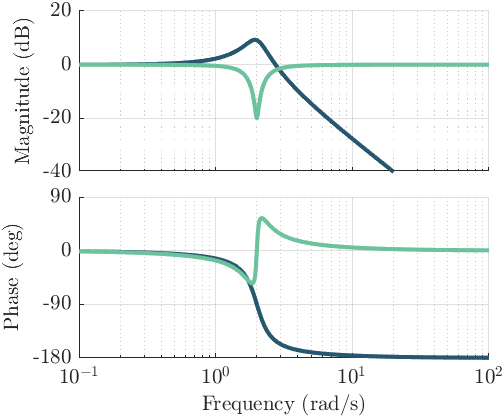
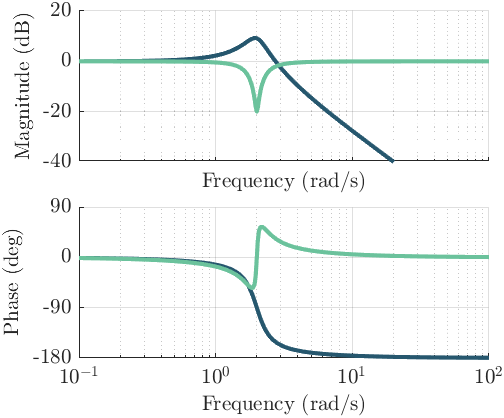
Move sharexy to preplot with much easier logic and figure sizing to postplot. By having figure sizing in postplot you can export the same plot multiple times with different settings if you e.g. want a plot for in a paper and in a presentation.

diff --git a/src/postplot.m b/src/postplot.m
@@ -1,4 +1,4 @@
-function links = postplot(f, fileName, opts)
+function postplot(f, fileName, opts)
 %POSTPLOT Finalize a figure with certain parameters, use together with
 %preplot.
 %   Postplot finalizes a figure by adjusting fonts, sharing x or y axes
@@ -24,12 +24,8 @@ function links = postplot(f, fileName, opts)
 %       y limits.
 %     opts.removeTimetableUnit: When plotting with Timetables, Matlab will
 %       by default put the time unit on the lower right, this removes that.
-%     opts.lineWidth: Set the linewidth of all lines in a figure.
-%
-%   Outputs:
-%      links: When linking axes properties with sharex or sharey, the links
-%        need to remain in the worksapce or they get lost, so we need to
-%        return them.
+%     opts.lineWidth: Set the linewidth of all objects (lines, scatter, 
+%       patch, etc...) in a figure.
 %
 %   Example:
 %     [f, axs] = preplot(2, 1)
@@ -46,15 +42,16 @@ function links = postplot(f, fileName, opts)
 arguments
     f matlab.ui.Figure = gcf
     fileName string = []
+    opts.paperFormat string = []
+    opts.column int8 = 1
+    opts.lineFrac double = 1.0
+    opts.aspectRatio double = 4/3
     opts.fontname = 'default'
     opts.fontSize = 10
     opts.legendFontSize = []
     opts.titleFontSize = []
     opts.fontSizeUnit = 'points'
-    opts.sharex logical = false
-    opts.sharey logical = false
     opts.removeTimetableUnit logical = false
-    opts.linkaxes = false  % Can be 'x', 'y', 'xy'.
     opts.lineWidth = []
 end
 
@@ -62,59 +59,49 @@ end
 axsUnordered = findobj(f, 'Type', 'axes');
 gridSize = f.Children.GridSize;  % Assumes that the plot was made with tiledlayout (through e.g. preplot).
 
-% TODO: documentation and maybe refactor with a local function or so? This
-% is a little bit of magic.
-iLink = 1;
-if opts.sharex || opts.sharey
-    for i = 1:length(axsUnordered)
-        ax = axsUnordered(i);
-        [iCol, iRow] = ind2sub(flip(gridSize), ax.Layout.Tile);  % flip the gridsize nm because ind2sub is column-major but tiledlayout row-major by default.
-        
-        
-        for j = 1:length(axsUnordered)
-            ax2 = axsUnordered(j);
-            [iCol2, iRow2] = ind2sub(flip(gridSize), ax2.Layout.Tile);  % flip the gridsize nm because ind2sub is column-major but tiledlayout row-major by default.
-            
-            if opts.sharex
-                ax2AboveAx = (iRow2 + ax2.Layout.TileSpan(1) == iRow) && (iCol2 == iCol);
-                equalSpanInX = ax2.Layout.TileSpan(2) == ax.Layout.TileSpan(2);
-                if ax2AboveAx && equalSpanInX
-                    ax2.XTickLabel = [];
-                    ax2.XAxis.Label.String = [];
-                    
-                    % Since we removed the x ticks, we need to make sure
-                    % that the x limits of the two plots are now linked.
-                    links(iLink) = linkprop([ax, ax2], 'XLim');  %#ok because we cannot predict how many links we'll create.
-                    iLink = iLink + 1;
-                    lim1 = get(ax, 'XLim');
-                    lim2 = get(ax2, 'XLim');
-                    xmin = min([lim1, lim2]);
-                    xmax = max([lim1, lim2]);
-                    xlim(ax, [xmin, xmax])
-                    xticks(ax2, xticks(ax));
-                end
+% Change the default size of the figure if specified by the user through
+% paperFormat, column, lineFrac, and aspectRatio.
+if ~isempty(opts.paperFormat)
+    switch opts.paperFormat
+        case "NAWEA"
+            % 6.5 inch line width.
+            f.Units = 'inches';
+            basewidth = 6.5;
+        case "ppt"
+            % Widescreen ppt format (16:9)
+            f.Units = 'centimeters';
+            basewidth = 33.867;
+        case "WES"
+            % I can't really find what it officially is so I just measured it.
+            f.Units = 'inches';
+            if opts.column == 1
+                basewidth = 3.35;
+            elseif opts.column == 2
+                basewidth = 7;
+            else
+                error('Not configures for column = %i', opts.column)
             end
-            if opts.sharey
-                ax2LeftOfAx = (iCol2 + ax2.Layout.TileSpan(2) == iCol) && (iRow2 == iRow);
-                equalSpanInY = ax2.Layout.TileSpan(1) == ax.Layout.TileSpan(1);
-                if ax2LeftOfAx && equalSpanInY
-                    ax.YTickLabel = [];
-                    ax.YAxis.Label.String = [];
-                    
-                    % Since we removed the y ticks, we need to make sure
-                    % that the x limits of the two plots are now linked.
-                    links(iLink) = linkprop([ax, ax2], 'YLim');  %#ok because we cannot predict how many links we'll create.
-                    iLink = iLink + 1;
-                    lim1 = get(ax, 'yLim');
-                    lim2 = get(ax2, 'YLim');
-                    ymin = min([lim1, lim2]);
-                    ymax = max([lim1, lim2]);
-                    ylim(ax, [ymin, ymax])
-                    yticks(ax, yticks(ax2));
-                end
+        case 'ACC'
+            f.Units = 'inches';
+            if opts.column == 1
+                basewidth = 3.41;
+            elseif opts.column == 2
+                basewidth = 7;
+            else
+                error('Not configured for column = %i', opts.column);
             end
-        end
+        case "iop"  % Also Torque
+            f.Units = 'centimeter';
+            basewidth = 16;
+            if opts.column == 2
+                error('Column == 2 not available for iop or Torque.')
+            end
+        otherwise
+            error('paperFormat %s is unknown to me', opts.paperFormat)
     end
+    width = basewidth * opts.lineFrac;
+    height = width / opts.aspectRatio;
+    f.Position = [1, 1, width, height];
 end
 
 % When doing timetable plots (which I like and often do), Matlab
@@ -126,16 +113,6 @@ if opts.removeTimetableUnit
         % Interestingly, this operation gets rid of it.
         axsUnordered(i).XAxis.TickLabels = axsUnordered(i).XAxis.TickLabels;
     end
-end
-
-% Linking axes.
-% Matlab can only handle a single function call to linkaxes before links
-% are broken again. So I'm 'translating' the linkaxes commands to linkprop
-% command, of which multiple can exists. However, the resulting links
-% should remain in the Workspace of the user and are thus returned by
-% postplot.
-if opts.linkaxes
-    linkaxes(axsUnordered, opts.linkaxes)
 end
 
 % Adjust font size

diff --git a/src/preplot.m b/src/preplot.m
@@ -54,10 +54,6 @@ arguments
     n_rows = 1  % Can also be 'flow' to use the flow tiledlayout.
     n_cols = 1
     opts.fnum = []  % Better if positional? So you can easily define it and not get a ton of plots when trying stuff out?
-    opts.paperFormat string = []
-    opts.column int8 = 1
-    opts.lineFrac double = 1.0
-    opts.aspectRatio double = 4/3
     opts.TileSpacing string = 'tight'
     opts.Padding string = 'tight'
     opts.initializeAxes logical = true
@@ -65,6 +61,8 @@ arguments
     opts.grid string = 'on'
     opts.XScale string = 'linear'
     opts.YScale string = 'linear'
+    opts.sharex = false
+    opts.sharey = false
     opts.interpreter string = 'tex'
     opts.colororder = 'default'
     opts.colormap = 'default'    % Recommended: batlow
@@ -75,51 +73,6 @@ if opts.fnum
     f = figure(opts.fnum);
 else
     f = figure;
-end
-
-% Change the default size of the figure if specified by the user through
-% paperFormat, column, lineFrac, and aspectRatio.
-if ~isempty(opts.paperFormat)
-    switch opts.paperFormat
-        case "NAWEA"
-            % 6.5 inch line width.
-            f.Units = 'inches';
-            basewidth = 6.5;
-        case "ppt"
-            % Widescreen ppt format (16:9)
-            f.Units = 'centimeters';
-            basewidth = 33.867;
-        case "WES"
-            % I can't really find what it officially is so I just measured it.
-            f.Units = 'inches';
-            if opts.column == 1
-                basewidth = 3.35;
-            elseif opts.column == 2
-                basewidth = 7;
-            else
-                error('Not configures for column = %i', opts.column)
-            end
-        case 'ACC'
-            f.Units = 'inches';
-            if opts.column == 1
-                basewidth = 3.41;
-            elseif opts.column == 2
-                basewidth = 7;
-            else
-                error('Not configured for column = %i', opts.column);
-            end
-        case "iop"  % Also Torque
-            f.Units = 'centimeter';
-            basewidth = 16;
-            if opts.column == 2
-                error('Column == 2 not available for iop or Torque.')
-            end
-        otherwise
-            error('paperFormat %s is unknown to me', opts.paperFormat)
-    end
-    width = basewidth * opts.lineFrac;
-    height = width / opts.aspectRatio;
-    f.Position = [1, 1, width, height];
 end
 
 % Set the default interpreter for everything.
@@ -147,10 +100,53 @@ else
                 grid(axs(i,j), opts.grid)
                 set(axs(i,j), 'XScale', opts.XScale)
                 set(axs(i,j), 'YScale', opts.YScale)
+
+                % Remove axes labels on all but the last axis when sharing
+                % x or y axes.
+                if opts.sharex == true | strcmp(opts.sharex, 'row') | strcmp(opts.sharex, 'col')
+                    if i ~= n_rows
+                        axs(i,j).XTickLabel = [];
+                    end
+                end
+                if opts.sharey == true | strcmp(opts.sharey, 'row') | strcmp(opts.sharey, 'col')
+                    if j ~= n_cols
+                        axs(i,j).YTickLabel = [];
+                    end
+                end
+                
             end
         end
     end
 end
+
+% Also link the limits and ticks when sharing axes.
+hlink = [];
+switch opts.sharex
+    case true
+        hlink = [hlink, linkprop(axs, {'XLim', 'XTick'})];  
+    case 'row'
+        for i = 1:n_cols
+            hlink = [hlink, linkprop(axs(i, :), {'XLim', 'XTick'})];  %#ok
+        end
+    case 'col'
+        for i = 1:n_rows
+            hlink = [hlink, linkprop(axs(:, i), {'XLim', 'XTick'})];  %#ok
+        end
+end
+switch opts.sharey
+    case true
+        hlink = [hlink, linkprop(axs, {'YLim', 'YTick'})];
+    case 'row'
+        for i = 1:n_cols
+            hlink = [hlink, linkprop(axs(i, :), {'YLim', 'YTick'})];  %#ok
+        end
+    case 'col'
+        for i = 1:n_rows
+            hlink = [hlink, linkprop(axs(:, i), {'YLim', 'YTick'})];  %#ok
+        end
+end
+% The link objects must be saved, otherwise the links will be broken.
+f.UserData = hlink;
 
 
 % Set the color order and color map.

diff --git a/src/examples.m b/src/examples.m
@@ -3,17 +3,17 @@
 close all; clearvars; clc;
 addpath('src')
 
+
 %% Simple example.
 preplot();
 plot(1:10)
-postplot()
+postplot();
 
 
 %% With some customization.
 colors = [0.15, 0.34, 0.43;
           0.42, 0.76, 0.61];
-[f, axs] = preplot(2, 1, 'paperFormat', 'WES', 'column', 2, ...
-    'lineFrac', 0.9, 'aspectRatio', 1.5, 'colororder', colors, ...
+[f, axs] = preplot(2, 1, 'colororder', colors, 'sharex', true, ...
     'interpreter', 'latex');
 
 x = linspace(0, 5, 1e5);
@@ -23,23 +23,25 @@ ylabel(axs(1), '$$\alpha$$')
 ylabel(axs(2), '$$\beta$$')
 xlabel(axs(2), 'Time (s)')
 
-postplot(f, 'Images/test.pdf', 'fontSize', 16, 'legendFontSize', 14, ...
-    'sharex', true, 'lineWidth', 3);
+postplot(f, 'Images/test.pdf', 'paperFormat', 'WES', 'column', 2, ...
+    'lineFrac', 0.9, 'aspectRatio', 1.5, 'fontSize', 16, 'legendFontSize', 14, ...
+    'lineWidth', 3);
 
 
-%% Control plots.
+%% Control plots
 % Plots from the control toolbox don't work together with TiledLayout and
 % are difficult to customize, so this toolbox also provides custom control
 % plotting commands.
-[f, axs] = preplot(2, 2);
+[f, axs] = preplot(2, 2, 'sharex', true);
 axBig = nexttile(2, [2,1]);
 
 sys = tf(4, [1, 0.7, 4]);
 mbode(sys, axs(1,1), axs(2,1))
+
 mnyquist(sys, axBig, 'w', logspace(-1, 2, 1e3))
 xlim(axBig, [-2, 2])
 
-postplot(f, 'sharex', true, 'linewidth', 1, 'fontname', 'NimbusRomNo9L');
+postplot(f, 'linewidth', 1, 'fontname', 'NimbusRomNo9L');
 
 
 %% Logarithmic plot
@@ -51,20 +53,20 @@ preplot('YScale', 'log', 'XScale', 'log');
 plot(1:10)
 
 % Or:
-preplot('hold', 'off');
+preplot('initializeAxes', false);
 loglog(1:10)
 
 
 %% Example plot for README.
 colors = [0.15, 0.34, 0.43;
           0.42, 0.76, 0.61];
-[f, axs] = preplot(2, 1, 'paperFormat', 'WES', 'column', 1, ...
-    'aspectRatio', 1.2, 'colororder', colors, 'interpreter', 'latex');
+[f, axs] = preplot(2, 1, 'colororder', colors, 'interpreter', 'latex', 'sharex', true);
 
 sys1 = tf(4, [1, 0.7, 4]);
 sys2 = tf([1, 0.1, 4], [1, 1, 4]);
 mbode([sys1, sys2], axs(1,1), axs(2,1))
 ylim(axs(1), [-40, 20])
 
-postplot(f, 'Images/example.png', 'fontname', 'NimbusRomNo9L', ...
-    'fontSize', 10, 'legendFontSize', 8, 'sharex', true, 'lineWidth', 2);
+postplot(f, 'Images/example.png', 'paperFormat', 'WES', 'column', 1, ...
+    'aspectRatio', 1.2, 'fontname', 'NimbusRomNo9L', ...
+    'fontSize', 10, 'legendFontSize', 8, 'lineWidth', 2);
